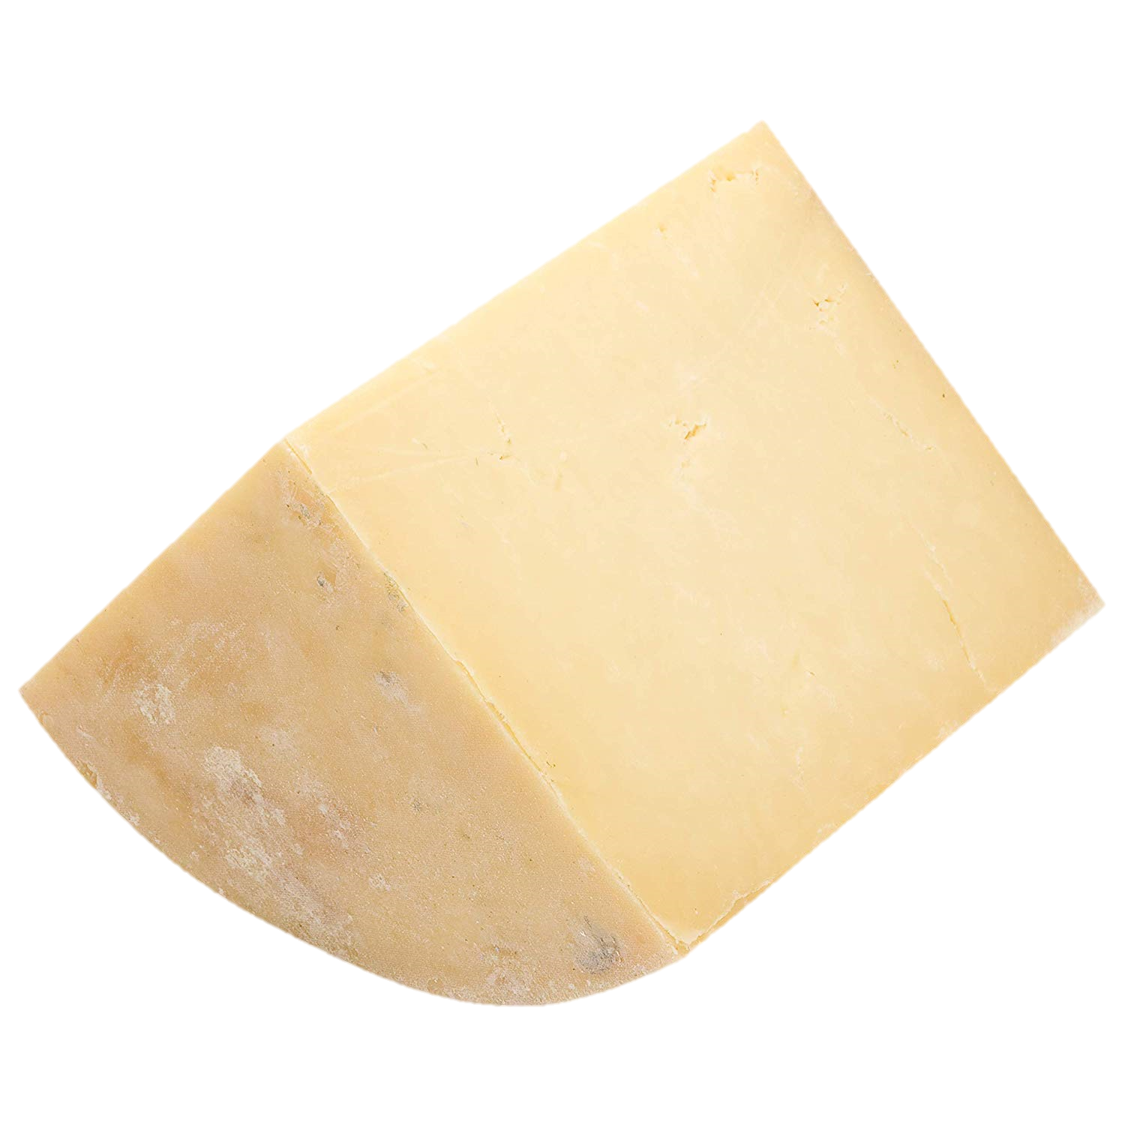
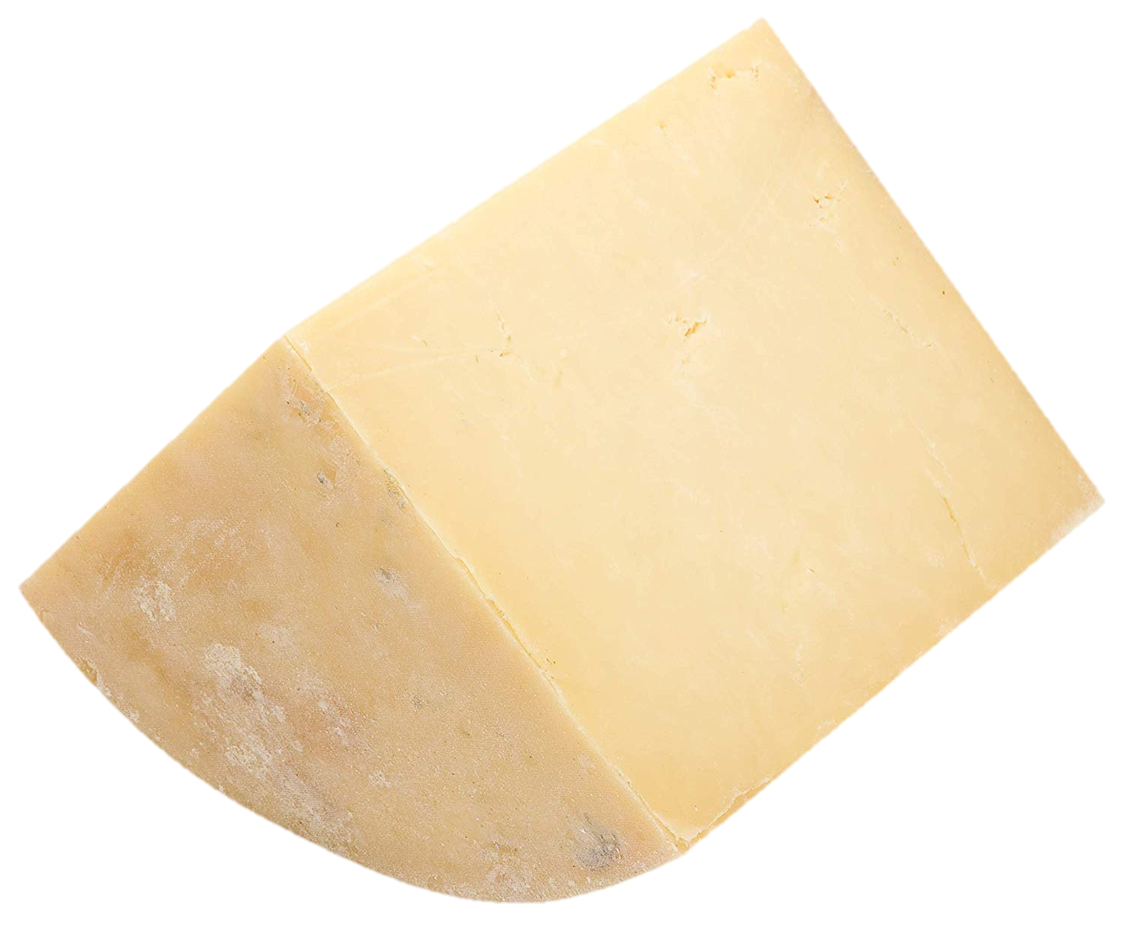
Replaced all cheese pictures and updated click function to show correct cheese when selected (for soft cheese only)

diff --git a/index.html b/index.html
@@ -17,7 +17,9 @@
         <div class="parent">
           <div class="child">
             <p class="selection1 text">Choose a <br> soft cheese</p>
-            <img class="selection1 cheesepic" src="images/savoie.png" alt="A picture of savoie cheese" width="100%"/>
+            <img class="selection1 cheesepic wigmore" src="images/wigmore.png" alt="A picture of Wigmore cheese" width="100%"/>
+            <img class="selection1 cheesepic stinking_bishop" src="images/stinking_bishop.png" alt="A picture of Stinking Bishop cheese" width="100%"/>
+            <img class="selection1 cheesepic soft_goats" src="images/soft_goats.png" alt="A picture of Rigotte De Chévre cheese" width="100%"/>
           </div>
           <div class="child">
             <p class="selection2 text">Choose a <br> hard cheese</p>
@@ -41,44 +43,44 @@
       </ul>
       <div class="tab-content" id="myTabContent">
         <div class="tab-pane fade show active imagecontainer" id="home" role="tabpanel" aria-labelledby="home-tab">
-          <figure class="option1 containedimage">
-            <img class="image" src="images/savoie.png" alt="A picture of savoie cheese"/>
+          <figure class="option1 containedimage" id="wigmore">
+            <img class="image" src="images/wigmore.png" alt="A picture of Wigmore cheese"/>
             <figcaption><strong>Wigmore</strong><br><em>British, unpasteurised, ewes milk</em><br>Creamy and light in flavour<br>Intensity: 2/5</figcaption>
           </figure>
-          <figure class="option1 containedimage">
-            <img class="image" src="images/savoie.png" alt="A picture of savoie cheese"/>
+          <figure class="option1 containedimage" id="stinking_bishop">
+            <img class="image" src="images/stinking_bishop.png" alt="A picture of Stinking Bishop cheese"/>
             <figcaption><strong>Stinking Bishop</strong><br><em>English, washed rind, cows milk</em><br>Nutty, rich and a bit smelly<br>Intensity: 3/5</figcaption>
           </figure>
-          <figure class="option1 containedimage">
-            <img class="image" src="images/savoie.png" alt="A picture of savoie cheese"/>
+          <figure class="option1 containedimage soft_goats" id="soft_goats">
+            <img class="image" src="images/soft_goats.png" alt="A picture of Rigotte De Chévre cheese"/>
             <figcaption><strong>Rigotte De Chévre</strong><br><em>French, goats milk</em><br>Smooth and packs a punch<br>Intensity: 3/5</figcaption>
           </figure>
         </div>
         <div class="tab-pane fade" id="profile" role="tabpanel" aria-labelledby="profile-tab">
           <figure class="option2">
-            <img class="image" src="images/cheddar.png" alt="A picture of cheddar cheese"/>
+            <img class="image" src="images/rachel_goat.png" alt="A picture of Rachel Goats cheese"/>
             <figcaption><strong>Rachel Goats</strong><br><em>English, goats milks</em><br>Semi-hard, light and well-rounded<br>Intensity: 2/5</figcaption>
           </figure>
           <figure class="option2">
-            <img class="image" src="images/cheddar.png" alt="A picture of cheddar cheese"/>
+            <img class="image" src="images/manchego.png" alt="A picture of Manchego cheese"/>
             <figcaption><strong>Manchego</strong><br><em>Spanish, ewes milk</em><br>Fruity tang with a soft mouth feel<br>Intensity: 3/5</figcaption>
           </figure>
           <figure class="option2">
-            <img class="image" src="images/cheddar.png" alt="A picture of cheddar cheese"/>
+            <img class="image" src="images/cheddar.png" alt="A picture of Vintage Cave-Aged Cheddar cheese"/>
             <figcaption><strong>Vintage Cave-Aged Cheddar</strong><br><em>English, cows milk</em><br>Rich and crumbly with considerable bite<br>Intensity: 4/5</figcaption>
           </figure>
         </div>
         <div class="tab-pane fade" id="contact" role="tabpanel" aria-labelledby="contact-tab">
           <figure class="option3">
-            <img class="image" src="images/gorgonzola.png" alt="A picture of gorgonzola cheese"/>
+            <img class="image" src="images/blacksticks.png" alt="A picture of Blacksticks cheese"/>
             <figcaption><strong>Blacksticks Blue</strong><br><em>English, cows milk</em><br>Semi-soft, creamy and full of flavour<br>Intensity: 4/5</figcaption>
           </figure>
           <figure class="option3">
-            <img class="image" src="images/gorgonzola.png" alt="A picture of gorgonzola cheese"/>
+            <img class="image" src="images/roquefort.png" alt="A picture of Roquefort cheese"/>
             <figcaption><strong>Roquefort</strong><br><em>French, cows milk</em><br>Creamy, very rich and strong aftertaste<br>Intensity: 5/5</figcaption>
           </figure>
           <figure class="option3">
-            <img class="image" src="images/gorgonzola.png" alt="A picture of gorgonzola cheese"/>
+            <img class="image" src="images/stilton.png" alt="A picture of Stilton cheese"/>
             <figcaption><strong>Stilton</strong><br><em>English, cows milk</em><br>Crumbly and nutty; it’s a classic for a reason<br>Intensity: 4/5</figcaption>
           </figure>
         </div>
@@ -97,19 +99,6 @@
         <img class="cheese-image" id="drag1" src="images/savoie.jpg" draggable="true" ondragstart="drag(event)"/>
 
       <br>
-
-      <div>
-        <figure>
-          <img class="option1 containedimage" src="images/savoie.png" alt="A picture of savoie cheese" width="10%"/>
-          <figcaption>Wigmore<br>British, unpasteurised, ewes milk.<br>Creamy and light in flavour.<br>Intensity: 2/5</figcaption>
-        </figure>
-        <figure>
-          <img class="option1 containedimage" src="images/savoie.png" alt="A picture of savoie cheese" width="10%"/>
-        </figure>
-        <figure>
-          <img class="option1 containedimage" src="images/savoie.png" alt="A picture of savoie cheese" width="10%"/>
-        </figure>
-      </div>
 
       <script src="https://getbootstrap.com/docs/4.1/assets/js/vendor/popper.min.js"></script>
       <script src="https://getbootstrap.com/docs/4.1/dist/js/bootstrap.min.js"></script>

diff --git a/js/main.js b/js/main.js
@@ -6,6 +6,9 @@ $( document ).ready(function(){
   $(".option1").click(function(){
     $(this).addClass('border');
     $(".option1").not(this).removeClass('border');
+    $(".selection1.text").addClass('hidden');
+    $(".selection1.cheesepic").hide();
+    $(".selection1.cheesepic."+this.id).show();
     });
 
   $(".option2").click(function(){

diff --git a/css/styles.css b/css/styles.css
@@ -1,5 +1,5 @@
 body {
-  padding-top: 5rem;
+  padding-top: 2rem;
   background-color: grey;
 }
 
@@ -53,7 +53,19 @@ body {
   padding: 15px;
 }
 
-.selection1.text {
+/* .selection1.text {
+  display: none;
+} */
+
+.hidden {
+  display: none;
+}
+
+.show {
+  display: absolute;
+}
+
+.cheesepic {
   display: none;
 }
 
